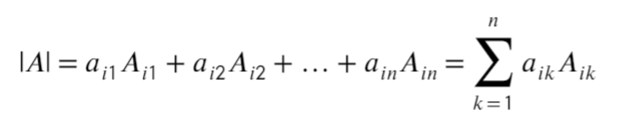
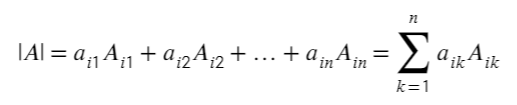
Arreglos en la parte responsive

Changed region(s): [[0.0309, 0.2571, 0.9903, 0.8857], [0.7737, 0.1143, 0.8356, 0.2286]]

diff --git a/determinants/src/components/determinants/Laplace/mobile/definition.jsx b/determinants/src/components/determinants/Laplace/mobile/definition.jsx
@@ -32,7 +32,9 @@ const Definition = () => {
           <div className="overlay" onClick={closePopup}></div>
           <div className="popup">
             <button onClick={closePopup}>X</button>
-            <MobileMatrix />
+            <div className="popup-content">
+              <MobileMatrix />
+            </div>
           </div>
         </>
       )}
@@ -49,7 +51,9 @@ const Definition = () => {
           <div className="overlay" onClick={closePopup}></div>
           <div className="popup">
             <button onClick={closePopup}>X</button>
-            <Mobileexpansion />
+            <div className="popup-content">
+              <Mobileexpansion />
+            </div>
           </div>
         </>
       )}
@@ -69,7 +73,9 @@ const Definition = () => {
           <div className="overlay" onClick={closePopup}></div>
           <div className="popup">
             <button onClick={closePopup}>X</button>
-            <Mobileexpresion />
+            <div className="popup-content">
+              <Mobileexpresion />
+            </div>
           </div>
         </>
       )}

diff --git a/determinants/src/components/determinants/det.css b/determinants/src/components/determinants/det.css
@@ -235,16 +235,26 @@ iframe {
 
 /* Estilo para el botón de cerrar el popup */
 .popup button {
-  margin-top: 0.5rem;
-  margin-bottom: 0.5rem;
-  background-color: var(--RHeader);
+  position: absolute;
+  top: 5px;
+  left:calc(100vw - 100px);
   color: var(--letter);
+  background-color: var(--RHeader);
   border-radius: 10px;
-  padding: 10px;
+  padding: 8px;
 }
 
-.formula__imagen {
+.popup-content {
+  margin-top: 40px; /* Deja espacio para el botón de cerrar en la esquina superior izquierda */
+}
+
+.formula__imagen__easy {
   width: 200px;
+  height: auto;
+}
+
+.formula__imagen{
+  width: 400px;
   height: auto;
 }
 
@@ -321,7 +331,12 @@ iframe {
   }
 
   .formula__imagen{
-    width: 400px;
+    width: calc(100vw - 50px);
+    height: auto;
+  }
+
+  .formula__imagen__easy{
+    width: calc(100vw - 50px);
     height: auto;
   }
 }

diff --git a/determinants/src/components/determinants/Laplace/mobile/mobilematrix.jsx b/determinants/src/components/determinants/Laplace/mobile/mobilematrix.jsx
@@ -5,7 +5,7 @@ import '../../det.css';
 const mobilematrix = () => {
   return (
     <div>
-        <img srcSet={Matrix} alt="" className="formula__imagen" />
+        <img srcSet={Matrix} alt="" className="formula__imagen__easy" />
     </div>
   )
 }
